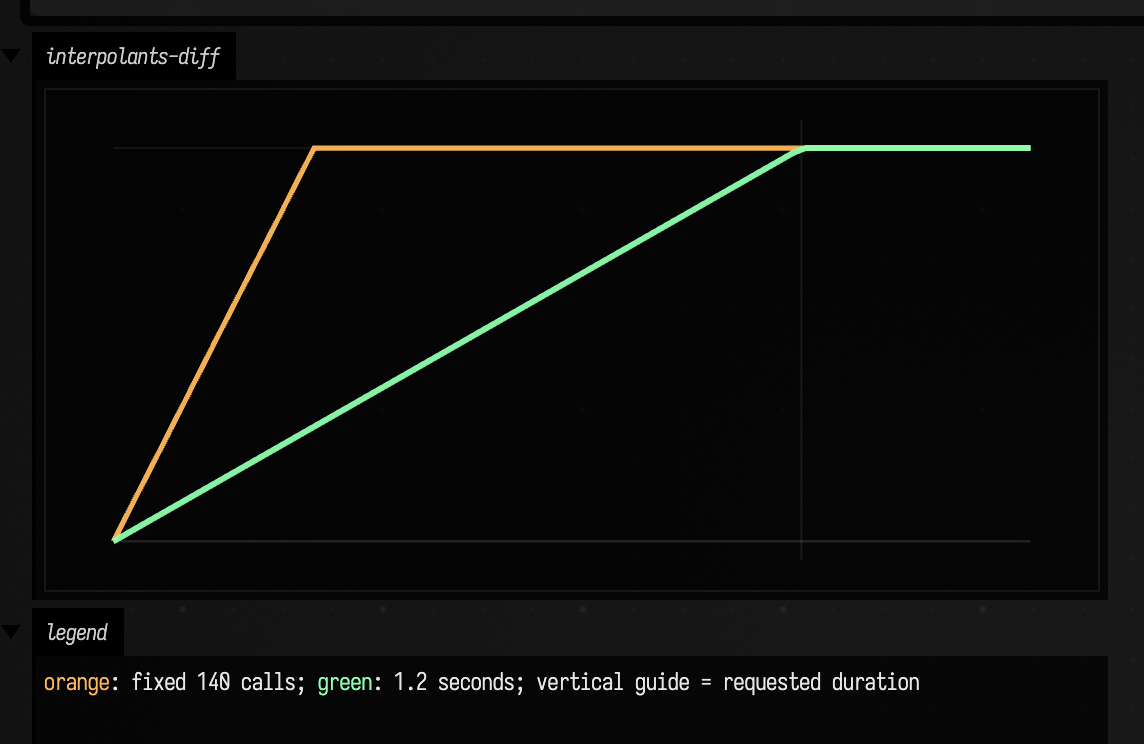
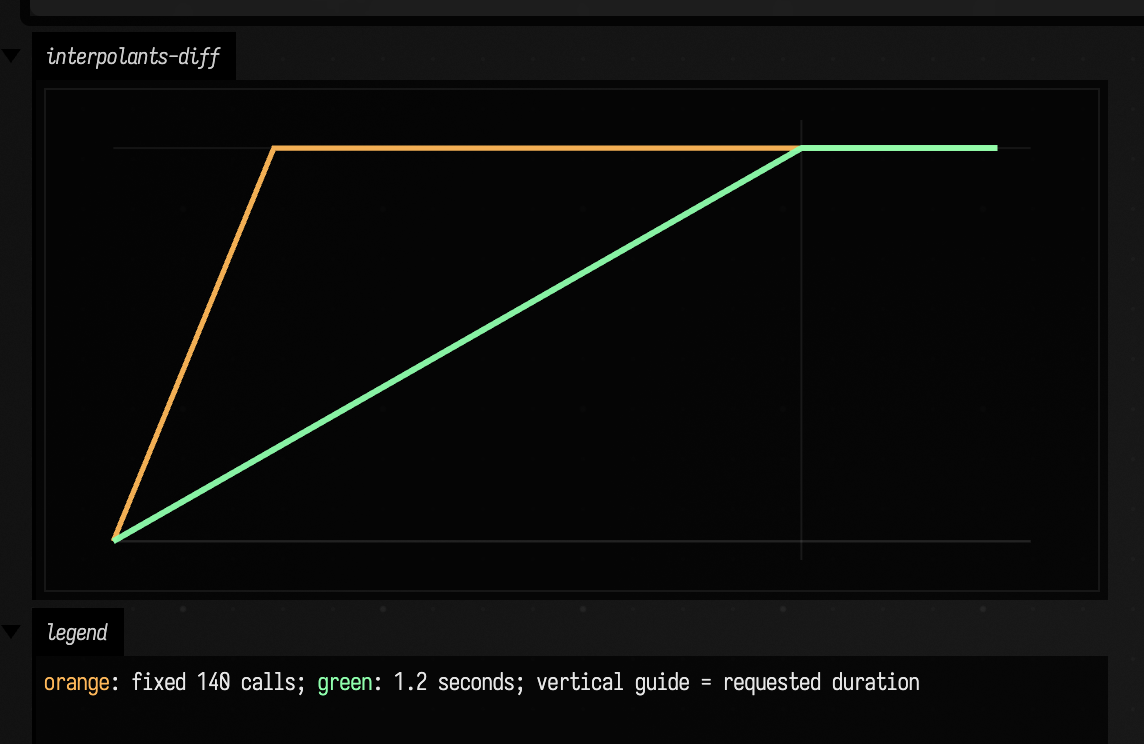
Add frame-clocked interpolants
Inject deterministic clocks into smoothTo, document fixed-rate rendering, and add focused tests with refreshed generated docs and capture.

Changed region(s): [[0.1224, 0.1855, 0.2753, 0.6492], [0.8566, 0.1855, 0.9178, 0.2164], [0.0918, 0.6492, 0.1224, 0.711]]

diff --git a/src/jvmMain/kotlin/afield/stdlib/interpolants.kt b/src/jvmMain/kotlin/afield/stdlib/interpolants.kt
@@ -20,9 +20,10 @@ import afield.stdlib.linalg.Vector4f
  *
  * Interpolation is linear and only covers `Float`, `Double`, `Int`, `Long` and
  * `Vector2f`/`Vector3f`/`Vector4f`; any other type completes immediately at the target. Progress
- * is either wall-clock (`time` seconds, measured with `System.nanoTime`) or a fixed number of
- * evaluations (`steps`, default 100), and it is one-shot: once it reaches the target it stays
- * there.
+ * is either time-based (`time` seconds), a fixed number of evaluations (`steps`, default 100), or
+ * frame-based by supplying `clock = frameClock(fps) { frameNumber }`. Time-based interpolation uses
+ * `System.nanoTime` by default; an injected clock makes offline and fixed-rate rendering independent
+ * of scheduler pauses. The interpolation is one-shot: once it reaches the target it stays there.
  */
 
 /**
@@ -46,6 +47,7 @@ interface NeedsStartingValue<T> {
 private class SmoothInterpolant<T>(
     private val durationSeconds: Double?,
     private val steps: Int?,
+    private val clock: (() -> Double)?,
     private val target: () -> T
 ) : NeedsStartingValue<T>, HasUniform<T>, ProgressingUniform {
 
@@ -75,10 +77,7 @@ private class SmoothInterpolant<T>(
             return targetValue
         }
 
-        val nowSeconds = System.nanoTime() / 1_000_000_000.0
-        if (startedAt == null) startedAt = nowSeconds
-
-        val alpha = progress(nowSeconds)
+        val alpha = progress()
         val value = interpolate(resolvedStart, targetValue, alpha)
 
         if (alpha >= 1.0) completed = true
@@ -160,9 +159,11 @@ private class SmoothInterpolant<T>(
         }
     }
 
-    private fun progress(nowSeconds: Double): Double {
+    private fun progress(): Double {
         durationSeconds?.let { duration ->
             if (duration <= 0.0) return 1.0
+            val nowSeconds = clock?.invoke() ?: System.nanoTime() / 1_000_000_000.0
+            if (startedAt == null) startedAt = nowSeconds
             val elapsed = nowSeconds - (startedAt ?: nowSeconds)
             return (elapsed / duration).coerceIn(0.0, 1.0)
         }
@@ -175,23 +176,52 @@ private class SmoothInterpolant<T>(
 }
 
 /**
+ * Converts an authoritative rendered-frame counter into the seconds clock accepted by [smoothTo].
+ *
+ * The returned clock advances by exactly `1 / fps` when [frameNumber] advances by one. Repeated
+ * reads in the same frame return the same time, which is the important difference from `steps`:
+ * uniforms may be evaluated more than once while producing a single rendered frame.
+ *
+ * For a deterministic 24 fps render:
+ *
+ * ```kotlin
+ * val eased = smoothTo<Float>(
+ *     time = 1.0,
+ *     steps = null,
+ *     clock = frameClock(24.0) { renderer.frameCounter },
+ * ) { 1.0f }
+ * ```
+ */
+fun frameClock(fps: Double, frameNumber: () -> Number): () -> Double {
+    require(fps.isFinite() && fps > 0.0) { "fps must be finite and positive" }
+    return { frameNumber().toDouble() / fps }
+}
+
+/**
  * Wraps a target-producing lambda so that reading it *eases toward* the target instead of jumping
  * there — the one-word way to take the snap out of a value assignment.
  *
  * `m.color = smoothTo { rgb(1, 0, 0) }` eases to red across the next hundred evaluations instead of
  * arriving on the next frame. Counted exactly: the first evaluation reports the starting value unmoved
  * (`0/100`) and the hundred-and-first is the first to report the target, so `steps` is the number of
- * *increments*, not of readings. Give [time] in **seconds** for a wall-clock ease (measured with `System.nanoTime`, so
- * it is frame-rate independent), or leave it null and let [steps] count evaluations. [time] wins if
- * both are given.
+ * *increments*, not of readings. Give [time] in **seconds** for a timed ease, or leave it null and
+ * let [steps] count evaluations. Timed easing uses `System.nanoTime` by default. Supply [clock] to
+ * use a deterministic timeline instead; `frameClock(24.0) { renderer.frameCounter }` advances by
+ * rendered frames and is suitable for a constant-24-fps film render. [time] wins if both it and
+ * [steps] are given.
  *
  * One-shot and linear: it arrives and stays, with no easing curve and no overshoot, and re-aims only
  * if whoever bound it calls [NeedsStartingValue.startAt] again. Interpolation covers `Float`,
  * `Double`, `Int`, `Long` and `Vector2f`/`Vector3f`/`Vector4f`; any other type is delivered
  * immediately at the target rather than animated.
  */
-fun <T> smoothTo(time: Double? = null, steps: Int? = 100, a: () -> T): () -> T {
-    return SmoothInterpolant(time, steps, a)
+fun <T> smoothTo(
+    time: Double? = null,
+    steps: Int? = 100,
+    clock: (() -> Double)? = null,
+    a: () -> T
+): () -> T {
+    return SmoothInterpolant(time, steps, clock, a)
 }
 
 // usage

diff --git a/src/jvmTest/kotlin/afield/stdlib/InterpolantsTest.kt b/src/jvmTest/kotlin/afield/stdlib/InterpolantsTest.kt
@@ -1,0 +1,79 @@
+package afield.stdlib
+
+import kotlin.test.Test
+import kotlin.test.assertEquals
+import kotlin.test.assertFailsWith
+
+@Suppress("UNCHECKED_CAST")
+class InterpolantsTest {
+
+    @Test
+    fun frameClockAdvancesOncePerAuthoritativeFrame() {
+        var frame = 0L
+        val clock = frameClock(24.0) { frame }
+
+        assertEquals(0.0, clock(), 0.0)
+        assertEquals(0.0, clock(), 0.0, "re-reading one frame must not advance time")
+        frame = 12
+        assertEquals(0.5, clock(), 1e-12)
+        frame = 24
+        assertEquals(1.0, clock(), 1e-12)
+    }
+
+    @Test
+    fun timeInterpolationCanRunOnRenderedFramesInsteadOfWallTime() {
+        var frame = 100L
+        val eased = smoothTo<Float>(
+            time = 1.0,
+            steps = null,
+            clock = frameClock(4.0) { frame },
+        ) { 1.0f }
+        (eased as NeedsStartingValue<Float>).startAt(0.0f)
+
+        assertEquals(0.0f, eased(), 0.0f)
+        assertEquals(0.0f, eased(), 0.0f, "two evaluations in one frame must agree")
+        frame = 101
+        assertEquals(0.25f, eased(), 1e-6f)
+        frame = 102
+        assertEquals(0.5f, eased(), 1e-6f)
+        frame = 104
+        assertEquals(1.0f, eased(), 0.0f)
+    }
+
+    @Test
+    fun startAtRestartsFromTheCurrentFrame() {
+        var frame = 0
+        val eased = smoothTo<Float>(
+            time = 1.0,
+            steps = null,
+            clock = frameClock(10.0) { frame },
+        ) { 1.0f }
+        val restartable = eased as NeedsStartingValue<Float>
+
+        restartable.startAt(0.0f)
+        assertEquals(0.0f, eased(), 0.0f)
+        frame = 5
+        assertEquals(0.5f, eased(), 1e-6f)
+
+        restartable.startAt(0.25f)
+        assertEquals(0.25f, eased(), 0.0f)
+        frame = 10
+        assertEquals(0.625f, eased(), 1e-6f)
+    }
+
+    @Test
+    fun stepModeDoesNotReadAnInjectedClock() {
+        val eased = smoothTo<Float>(steps = 2, clock = { error("step mode read the clock") }) { 1.0f }
+        (eased as NeedsStartingValue<Float>).startAt(0.0f)
+
+        assertEquals(0.0f, eased(), 0.0f)
+        assertEquals(0.5f, eased(), 1e-6f)
+        assertEquals(1.0f, eased(), 0.0f)
+    }
+
+    @Test
+    fun frameClockRejectsAnInvalidRate() {
+        assertFailsWith<IllegalArgumentException> { frameClock(0.0) { 0 } }
+        assertFailsWith<IllegalArgumentException> { frameClock(Double.NaN) { 0 } }
+    }
+}

diff --git a/public/docs/reference/math.md b/public/docs/reference/math.md
@@ -4,7 +4,7 @@
 
 Numerics: signal processing in both domains, estimation and fitting, interpolation, statistics, randomness and units. Everything here is plain `Double`/`Float` Kotlin with no GPU and no window, so it runs in a box, a test or a headless docs capture equally well.
 
-18 source file(s), 1573 public symbol(s), 1187 of them carrying KDoc. Everything below is the documentation that lives beside the code — the same text the [completion documentation panel](../completion_doc_browser.md) shows in the editor. A blank summary means the declaration has no KDoc yet, not that this page dropped it.
+18 source file(s), 1574 public symbol(s), 1188 of them carrying KDoc. Everything below is the documentation that lives beside the code — the same text the [completion documentation panel](../completion_doc_browser.md) shows in the editor. A blank summary means the declaration has no KDoc yet, not that this page dropped it.
 
 <div class="codebase-reference" markdown>
 
@@ -1345,9 +1345,10 @@ complete.
 
 Interpolation is linear and only covers `Float`, `Double`, `Int`, `Long` and
 `Vector2f`/`Vector3f`/`Vector4f`; any other type completes immediately at the target. Progress
-is either wall-clock (`time` seconds, measured with `System.nanoTime`) or a fixed number of
-evaluations (`steps`, default 100), and it is one-shot: once it reaches the target it stays
-there.
+is either time-based (`time` seconds), a fixed number of evaluations (`steps`, default 100), or
+frame-based by supplying `clock = frameClock(fps) { frameNumber }`. Time-based interpolation uses
+`System.nanoTime` by default; an injected clock makes offline and fixed-rate rendering independent
+of scheduler pauses. The interpolation is one-shot: once it reaches the target it stays there.
 
 `src/jvmMain/kotlin/afield/stdlib/interpolants.kt`
 
@@ -1357,7 +1358,8 @@ there.
 
 | Declaration | Summary |
 | --- | --- |
-| <code class="highlight"><span class="k">fun</span> <span class="p">&lt;</span><span class="nc">T</span><span class="p">&gt;</span> <span class="nf">smoothTo</span><span class="p">(</span><span class="n">time</span><span class="p">:</span> <span class="nc">Double</span><span class="o">?</span> <span class="o">=</span> <span class="kc">null</span><span class="p">,</span> <span class="n">steps</span><span class="p">:</span> <span class="nc">Int</span><span class="o">?</span> <span class="o">=</span> <span class="mi">100</span><span class="p">,</span> <span class="n">a</span><span class="p">:</span> <span class="p">(</span><span class="p">)</span> <span class="o">-&gt;</span> <span class="nc">T</span><span class="p">)</span><span class="p">:</span> <span class="p">(</span><span class="p">)</span> <span class="o">-&gt;</span> <span class="nc">T</span></code> | Wraps a target-producing lambda so that reading it *eases toward* the target instead of jumping there — the one-word way to take the snap out of a value assignment. |
+| <code class="highlight"><span class="k">fun</span> <span class="nf">frameClock</span><span class="p">(</span><span class="n">fps</span><span class="p">:</span> <span class="nc">Double</span><span class="p">,</span> <span class="n">frameNumber</span><span class="p">:</span> <span class="p">(</span><span class="p">)</span> <span class="o">-&gt;</span> <span class="nc">Number</span><span class="p">)</span><span class="p">:</span> <span class="p">(</span><span class="p">)</span> <span class="o">-&gt;</span> <span class="nc">Double</span></code> | Converts an authoritative rendered-frame counter into the seconds clock accepted by `smoothTo`. |
+| <code class="highlight"><span class="k">fun</span> <span class="p">&lt;</span><span class="nc">T</span><span class="p">&gt;</span> <span class="nf">smoothTo</span><span class="p">(</span><span class="n">time</span><span class="p">:</span> <span class="nc">Double</span><span class="o">?</span> <span class="o">=</span> <span class="kc">null</span><span class="p">,</span> <span class="n">steps</span><span class="p">:</span> <span class="nc">Int</span><span class="o">?</span> <span class="o">=</span> <span class="mi">100</span><span class="p">,</span> <span class="n">clock</span><span class="p">:</span> <span class="p">(</span><span class="p">(</span><span class="p">)</span> <span class="o">-&gt;</span> <span class="nc">Double</span><span class="p">)</span><span class="o">?</span> <span class="o">=</span> <span class="kc">null</span><span class="p">,</span> <span class="n">a</span><span class="p">:</span> <span class="p">(</span><span class="p">)</span> <span class="o">-&gt;</span> <span class="nc">T</span><span class="p">)</span><span class="p">:</span> <span class="p">(</span><span class="p">)</span> <span class="o">-&gt;</span> <span class="nc">T</span></code> | Wraps a target-producing lambda so that reading it *eases toward* the target instead of jumping there — the one-word way to take the snap out of a value assignment. |
 
 ### NeedsStartingValue { #interpolants-kt-needsstartingvalue }
 

diff --git a/public/docs/reference/index.md b/public/docs/reference/index.md
@@ -4,13 +4,13 @@
 
 Field's standard library is large and, until now, invisible: the only ways to read it were to open the source or to already know the name you wanted. This section is a browsable map of it — every public declaration in `afield.stdlib` and `afield.visualization`, with the KDoc that sits next to it in the source.
 
-**5708 public symbols across 112 source files**, 3304 of them (57%) carrying a KDoc summary. Pages are grouped by the `@file:CompletionCategory` label the source itself carries, which is the same grouping the editor's autocomplete uses.
+**5709 public symbols across 112 source files**, 3305 of them (57%) carrying a KDoc summary. Pages are grouped by the `@file:CompletionCategory` label the source itself carries, which is the same grouping the editor's autocomplete uses.
 
 The "documented" column is the honest one: it is a coverage report on Field's own KDoc, not a claim about this page. Where a summary is blank the declaration has none yet.
 
 | Category | Files | Symbols | Documented | Covers |
 | --- | --- | --- | --- | --- |
-| [Math](math.md) | 18 | 1573 | 1187 (75%) | Numerics: signal processing in both domains, estimation and fitting, interpolation, statistics, randomness and units. |
+| [Math](math.md) | 18 | 1574 | 1188 (75%) | Numerics: signal processing in both domains, estimation and fitting, interpolation, statistics, randomness and units. |
 | [Data](data.md) | 17 | 675 | 246 (36%) | Structures and processes over data rather than over pixels: clustering and nearest-neighbour search, generative and constraint systems, graph dynamics, and the I/O helpers (files, JSON, subprocesses, OSC-adjacent devices) that get data into a box. |
 | [Graphics](graphics.md) | 25 | 1460 | 704 (48%) | Everything that ends up as an `FLine`, a colour or a shader: drawing helpers, contouring, geometry, colour spaces, keyframing and the small shading languages' host side. |
 | [Imaging](imaging.md) | 6 | 255 | 209 (81%) | Rasters and computer vision: convolution and the filter family, gradients and edges, corners, blobs and morphology, multiscale pyramids, warps and optical flow. |
@@ -82,7 +82,7 @@ The "documented" column is the honest one: it is a coverage report on Field's ow
 | [ImagingVisualizer.kt](visualization.md#imagingvisualizer-kt) | Visualization | 4 | 4 |  |  |
 | [interactionnets.kt](visualization.md#interactionnets-kt) | Visualization | 196 | 196 | Interaction nets as a live-codeable medium: a graph whose nodes rewrite each other wherever two of them touch principal port to principal port, with a DSL for building nets, a rule language for the rewrites, a scheduler that decides which collision fires next, and a force-directed layout so you can watch it happen. | [Interaction Nets examples](../interaction_nets_examples.md) |
 | [InteractiveSolving.kt](graphics.md#interactivesolving-kt) | Graphics | 43 | 0 | The mutable, reuse-oriented half of the Ceres solver API, for solving the same program over and over at interactive rates. |  |
-| [interpolants.kt](math.md#interpolants-kt) | Math | 3 | 3 | `smoothTo` wraps a target-producing lambda so that reading it eases toward the target instead of jumping to it. | [Values over time: interpolants & keyframes](../interpolants_examples.md) |
+| [interpolants.kt](math.md#interpolants-kt) | Math | 4 | 4 | `smoothTo` wraps a target-producing lambda so that reading it eases toward the target instead of jumping to it. | [Values over time: interpolants & keyframes](../interpolants_examples.md) |
 | [JSONLineServer.kt](data.md#jsonlineserver-kt) | Data | 32 | 1 | A TCP listener that turns newline-delimited JSON into a value a box can read each frame. |  |
 | [jsonparsing.kt](data.md#jsonparsing-kt) | Data | 19 | 12 | Two related things: a small hand-written JSON reader, and a macro that generates a typed parser from a terse schema. |  |
 | [JSONProcess.kt](data.md#jsonprocess-kt) | Data | 14 | 0 | Runs an external command and reads newline-delimited JSON from its stdout. |  |

diff --git a/public/docs/interpolants_examples.md b/public/docs/interpolants_examples.md
@@ -112,14 +112,13 @@ data class Sample(val elapsed: Double, val byStep: Float, val byTime: Float)
 val byStep = smoothTo<Float>(steps = 140) { 1.0f }
 (byStep as NeedsStartingValue<Float>).startAt(0.0f)
 
-val byTime = smoothTo<Float>(time = 1.2, steps = null) { 1.0f }
+var elapsed = 0.0
+val byTime = smoothTo<Float>(time = 1.2, steps = null, clock = { elapsed }) { 1.0f }
 (byTime as NeedsStartingValue<Float>).startAt(0.0f)
 
-val started = System.nanoTime()
 val samples = List(220) { i ->
-    val elapsed = (System.nanoTime() - started) / 1_000_000_000.0
     val sample = Sample(elapsed, byStep(), byTime())
-    Thread.sleep(if (i < 150) 2L else 18L)
+    elapsed += if (i < 150) 0.002 else 0.018
     sample
 }
 
@@ -162,7 +161,10 @@ markdown("legend", """
 ![Step-based versus time-based smoothing under an uneven sampling cadence](assets/interpolants_examples/smooth_duration.png)
 
 The orange trace arrives as soon as 140 calls have happened; the green trace
-arrives at the requested wall-clock duration regardless of cadence. Use the
+arrives at the requested timeline duration regardless of cadence. The example injects a synthetic
+clock so its uneven cadence is exact and the documentation render is reproducible. For a film or
+offline render, use `clock = frameClock(24.0) { renderer.frameCounter }`: repeated reads in one frame
+see the same time, and each rendered frame advances exactly 1/24 second. Use the
 step form when the world is discrete and counted, the time form when it is
 musical, animated, or otherwise measured in seconds.
 

diff --git a/dev_docs/kdoc_worklist.md b/dev_docs/kdoc_worklist.md
@@ -2,7 +2,7 @@
 <!-- Regenerate: ./gradlew generateCodebaseReference -->
 # KDoc worklist
 
-The other half of the coverage column on [the codebase reference](../public/docs/reference/index.md): 3304 of 5708 public symbols in `afield.stdlib` and `afield.visualization` carry a KDoc summary, and this is what is missing, most valuable first.
+The other half of the coverage column on [the codebase reference](../public/docs/reference/index.md): 3305 of 5709 public symbols in `afield.stdlib` and `afield.visualization` carry a KDoc summary, and this is what is missing, most valuable first.
 
 **315 undocumented entry points** (types, top-level functions and values) and 1936 undocumented members. Overload families count once — documenting `pulseTrain` closes one gap, not six — and the members Kotlin generates for a `data class` are not counted at all.
 
